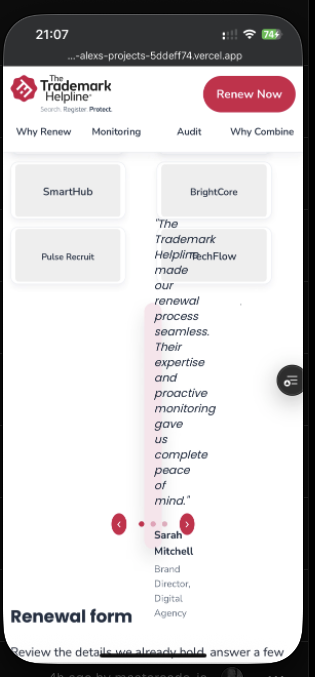
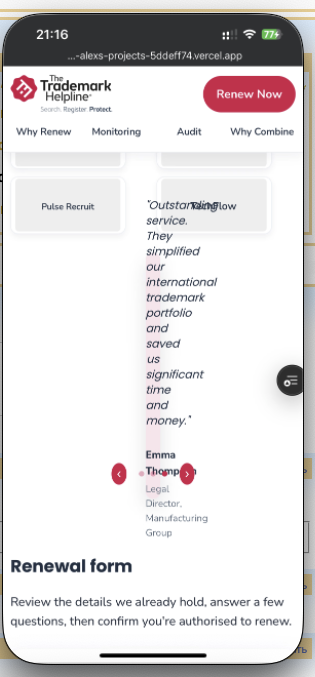
incremental

diff --git a/public/renewal-landing/styles.css b/public/renewal-landing/styles.css
@@ -421,12 +421,13 @@ input[type="checkbox"]:focus {
   .logo-grid { grid-template-columns: repeat(2, minmax(0, 1fr)); gap: 0.6rem; justify-items: stretch; }
   .client-logo { width: 100%; max-width: 150px; padding: 0.35rem; }
   .client-logo svg { width: 100%; height: auto; }
-  .testimonial-carousel { padding: 1rem 0.6rem 3.1rem; min-height: 320px; max-width: 320px; margin: 0 auto; }
-  .testimonial-card { left: 50%; right: auto; width: min(100%, 260px); transform: translateX(-50%); bottom: 3.1rem; }
+  .testimonial-carousel { padding: 1rem 1rem 2.5rem; min-height: auto; max-width: 320px; margin: 0 auto; position: relative; }
+  .testimonial-card { position: static; display: none; width: 100%; transform: none; margin: 0 auto; }
+  .testimonial-card.active { display: block; }
   .testimonial-quote { font-size: 0.9rem; line-height: 1.45; }
   .testimonial-author strong { font-size: 0.85rem; }
   .testimonial-author span { font-size: 0.78rem; }
-  .carousel-controls { bottom: 1.15rem; }
+  .carousel-controls { position: static; margin-top: 1rem; }
   .carousel-prev, .carousel-next { width: 28px; height: 28px; font-size: 1.1rem; }
   .carousel-dots .dot { width: 7px; height: 7px; }
   .btn { padding: 0.55rem 0.85rem; font-size: 0.9rem; }
